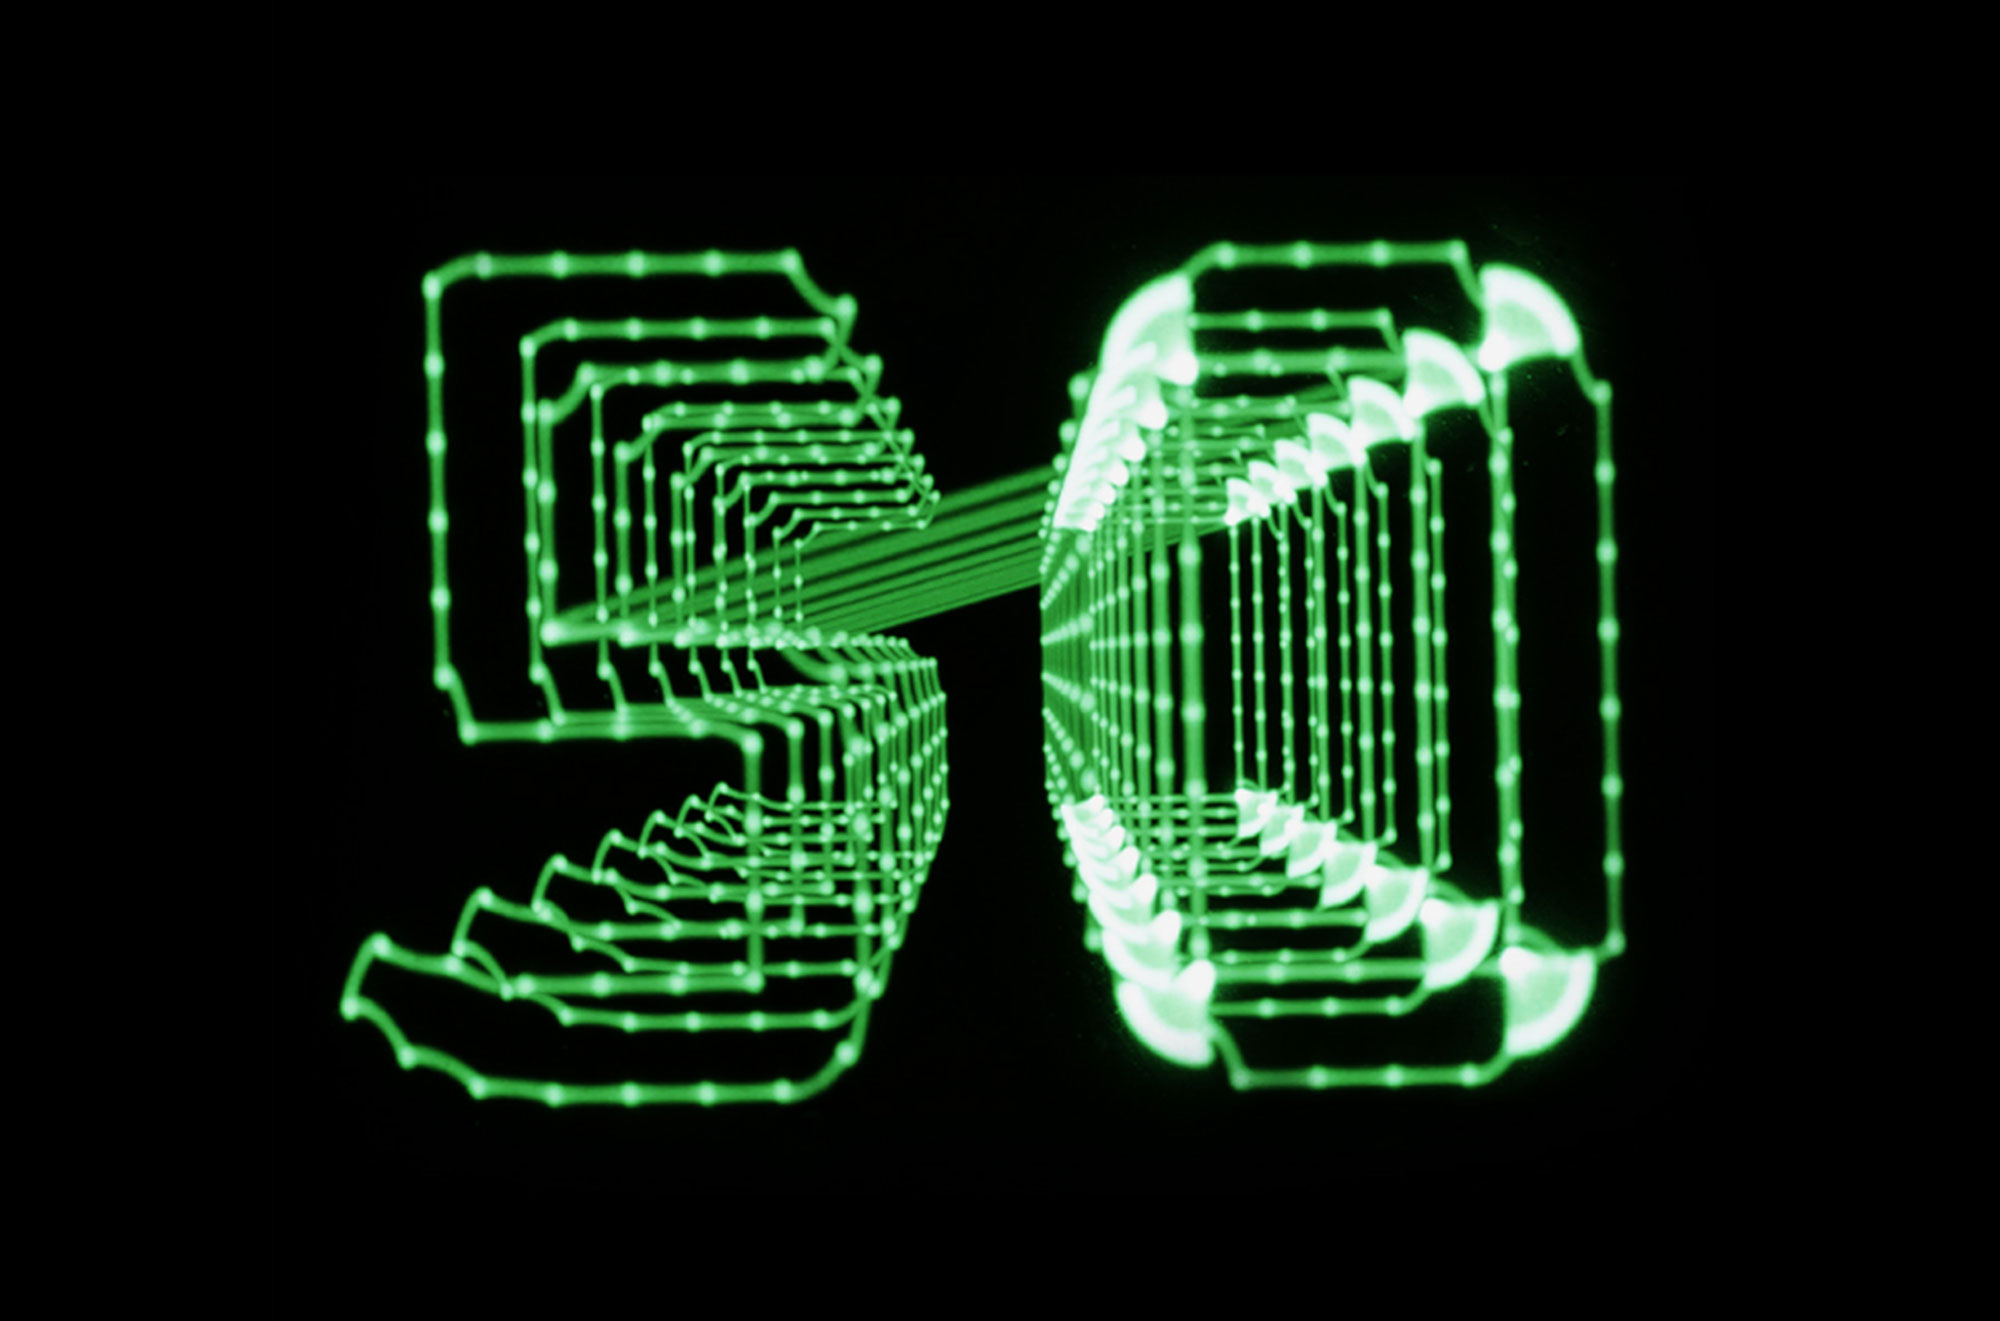
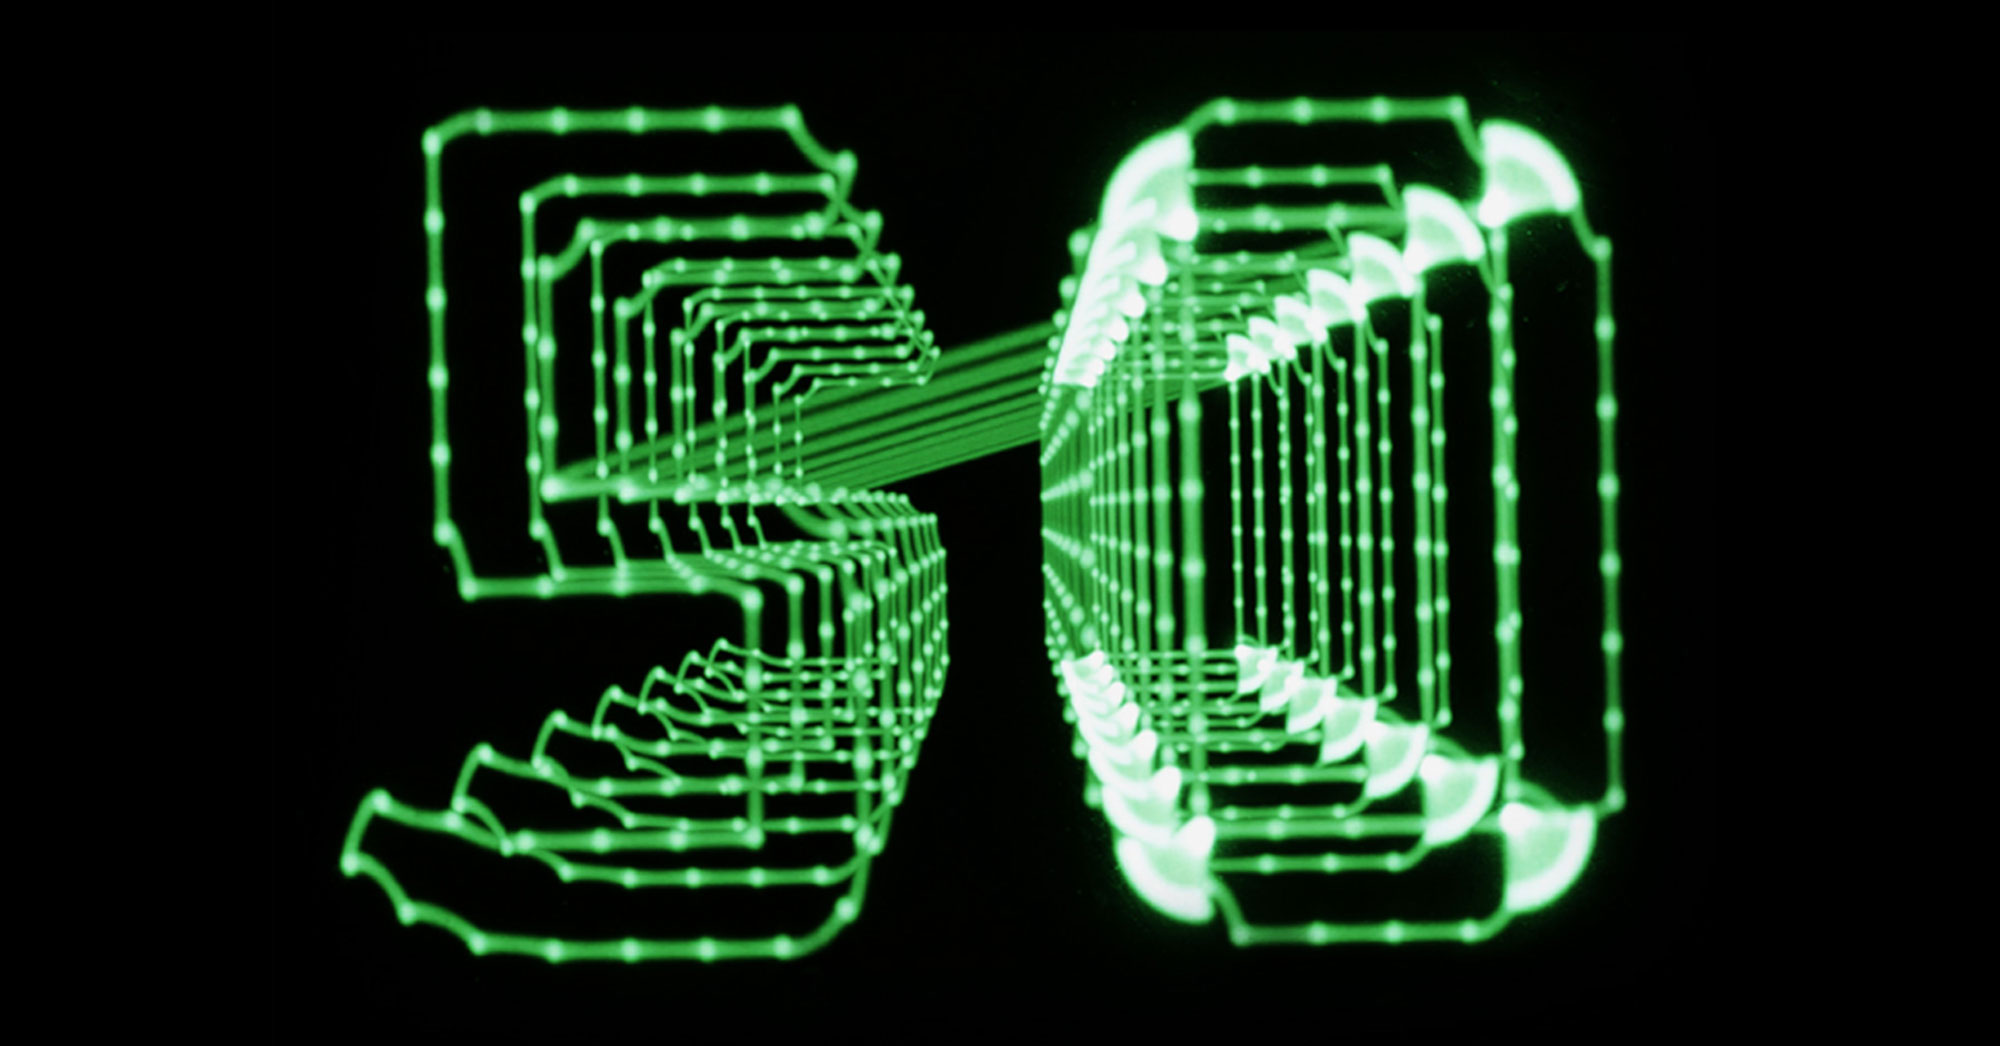
resizing header image

Changed region(s): [[0.155, 0.0918, 0.837, 0.9178]]

diff --git a/css/main.css b/css/main.css
@@ -552,7 +552,7 @@ a:hover {
     -o-background-size: cover;
        background-size: cover;
   opacity: 0;
-  padding-top: 66.06%
+  padding-top: 52.3%
 }
 
 #bg .inner.b-loaded {
